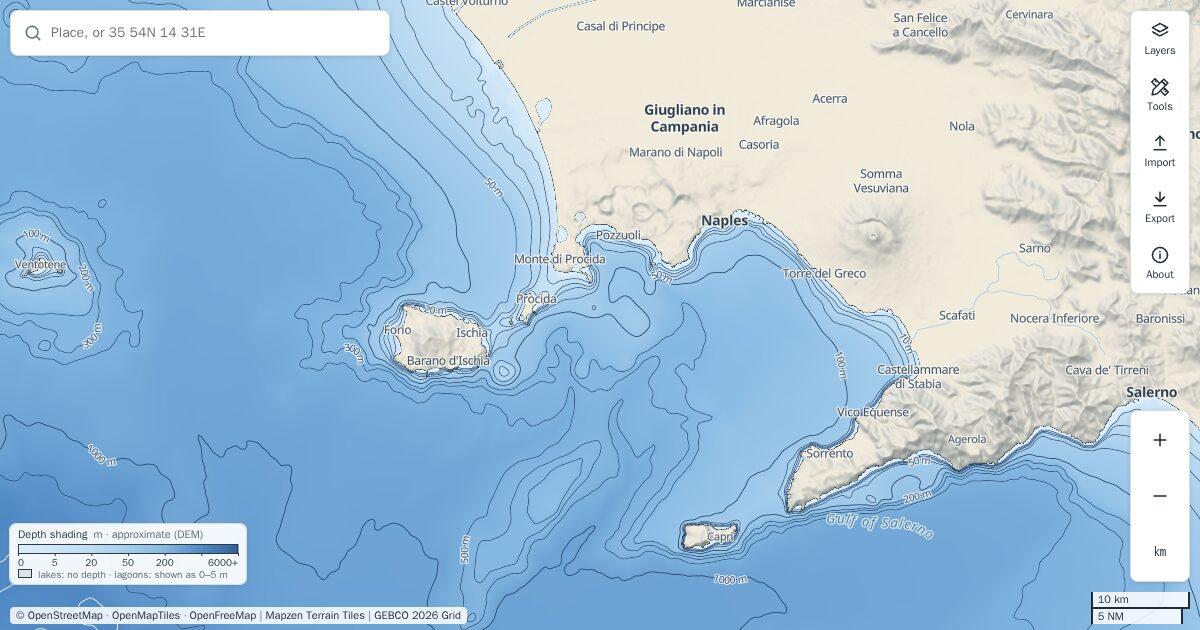
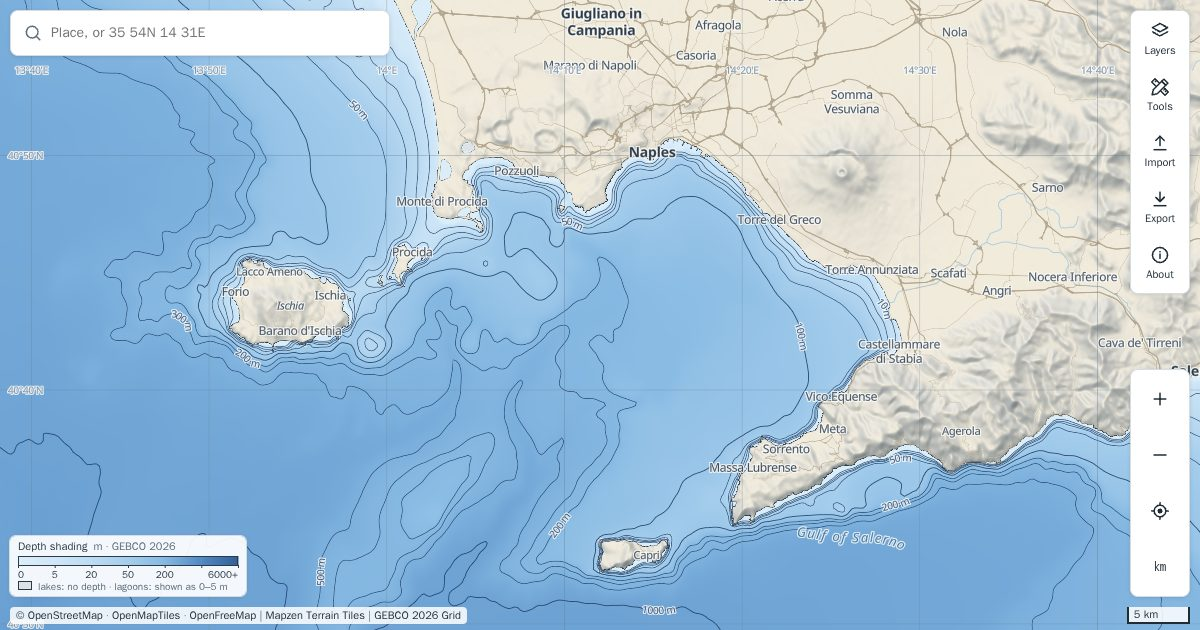
A new preview for shared links; the depth legend says GEBCO 2026
The preview showed the double scale bar, the old legend caption and the sea credited to the
land DEM. Taken again from the page as it is, same place. The caption read "approximate (DEM)".

diff --git a/site/app.js b/site/app.js
@@ -504,7 +504,7 @@ const KINDS = {
   gebco: {
     // the depth shading's legend: while the chart is under it, zoomed out (the shading ends at 13)
     legend: () => (state.on.has('chart') && map.getZoom() < 13 ? { key: state.variant.depth, paint: (el) => {
-      drawRamp(el, 'Depth shading', 'm · approximate (DEM)', depthStops(), { colour: NO_DEPTH, label: 'lakes: no depth · lagoons: shown as 0–5 m' });
+      drawRamp(el, 'Depth shading', 'm · GEBCO 2026', depthStops(), { colour: NO_DEPTH, label: 'lakes: no depth · lagoons: shown as 0–5 m' });
       return `Depth shading legend: ${depthStops().map(([d]) => d).join(', ')} metres`;
     } } : null),
     values: (it, box) => gebcoValues(box),
